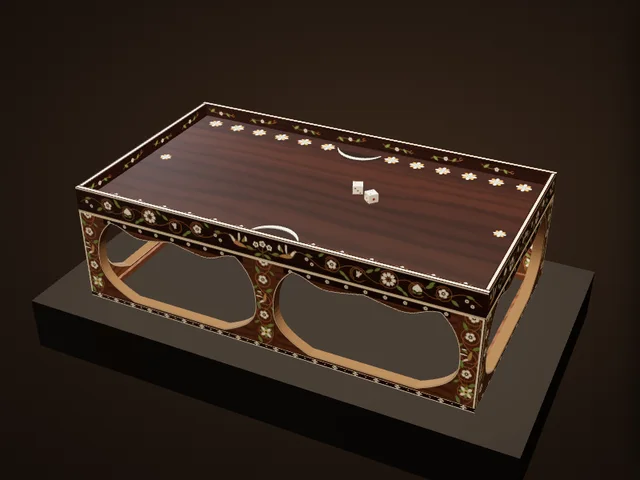
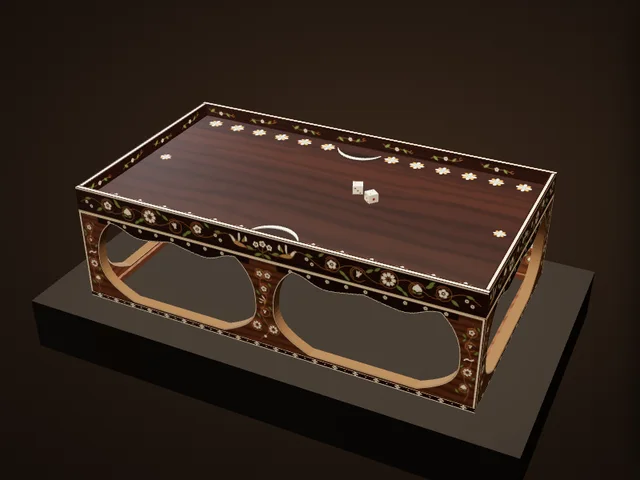
博物館：双六局の床脚・柱の唐草と桟の濃い帯を正面写真の構成に
Claude-Session: https://claude.ai/code/session_01EiWRAZTxRF5M5nk5vdR2jJ

diff --git a/atlas/museum/ex/sugoroku.js b/atlas/museum/ex/sugoroku.js
@@ -53,16 +53,19 @@
         }
         if (opt.edge) { g.fillStyle = C.iv; g.fillRect(0, 0, w, s * .18); g.fillRect(0, h - s * .18, w, s * .18); }
       };
-      // the band round the board's edge, composed as on the Shōsōin's frontal photographs: symmetric about a flowering sprig in the middle;
-      // outward from it a bird flying in, then thin stems curling into rings that hold in turn a five-petalled blossom, a tulip-like
-      // flower, a large eight-petalled rosette and a pointed ivory "shield", olive leaves between; on the short sides the birds are at the ends
-      const band = (g, w, h, s, long) => { g.drawImage(shT.image, 0, 0, w, h); const cy = h * .5, R = h * .33, ol = 'rgba(30,14,8,.6)';
+      const MOT = (g, s) => { const ol = 'rgba(30,14,8,.6)';
         const ring = (x, y, r, dir) => { g.strokeStyle = C.bam; g.lineWidth = s * .055; g.beginPath(); g.arc(x, y, r, dir > 0 ? .6 : Math.PI + .6, dir > 0 ? .6 + 5.3 : Math.PI + .6 + 5.3); g.stroke(); g.beginPath(); g.arc(x, y, r * .8, 2.2, 5.6); g.stroke(); };
         const rosette = (x, y, r) => { g.save(); g.translate(x, y); for (let q = 0; q < 8; q++) { g.rotate(Math.PI / 4); g.beginPath(); g.moveTo(r * .3, 0); g.quadraticCurveTo(r * .62, r * .42, r, r * .12); g.lineTo(r * .86, 0); g.lineTo(r, -r * .12); g.quadraticCurveTo(r * .62, -r * .42, r * .3, 0); g.fillStyle = C.iv; g.fill(); g.strokeStyle = ol; g.lineWidth = s * .03; g.stroke(); }
           g.beginPath(); g.arc(0, 0, r * .34, 0, 6.29); g.fillStyle = '#2a160e'; g.fill(); for (let q = 0; q < 6; q++) { g.rotate(Math.PI / 3); g.beginPath(); g.arc(r * .2, 0, r * .07, 0, 6.29); g.fillStyle = '#c0703c'; g.fill(); } g.restore(); };
         const shield = (x, y, r) => { g.beginPath(); g.moveTo(x, y - r); g.bezierCurveTo(x + r * .5, y - r * .5, x + r * .95, y - r * .3, x + r * .8, y + r * .35); g.quadraticCurveTo(x + r * .4, y + r * .2, x, y + r * .6); g.quadraticCurveTo(x - r * .4, y + r * .2, x - r * .8, y + r * .35); g.bezierCurveTo(x - r * .95, y - r * .3, x - r * .5, y - r * .5, x, y - r); g.fillStyle = C.iv; g.fill(); g.strokeStyle = ol; g.lineWidth = s * .03; g.stroke();
           leaf(g, x - r * .45, y + r * .75, r * .5, .5); leaf(g, x + r * .45, y + r * .75, r * .5, Math.PI - .5); };
         const tulip = (x, y, r, a) => { g.save(); g.translate(x, y); g.rotate(a); [-.55, 0, .55].forEach(t => { g.save(); g.rotate(t); g.beginPath(); g.moveTo(0, r * .5); g.quadraticCurveTo(r * .42, 0, 0, -r); g.quadraticCurveTo(-r * .42, 0, 0, r * .5); g.fillStyle = C.iv; g.fill(); g.strokeStyle = ol; g.lineWidth = s * .03; g.stroke(); g.restore(); }); g.beginPath(); g.arc(0, r * .5, r * .2, 0, 6.29); g.fillStyle = '#2a160e'; g.fill(); g.restore(); };
+        return { ring, rosette, shield, tulip }; };
+      // the band round the board's edge, composed as on the Shōsōin's frontal photographs: symmetric about a flowering sprig in the middle;
+      // outward from it a bird flying in, then thin stems curling into rings that hold in turn a five-petalled blossom, a tulip-like
+      // flower, a large eight-petalled rosette and a pointed ivory "shield", olive leaves between; on the short sides the birds are at the ends
+      const band = (g, w, h, s, long) => { g.drawImage(shT.image, 0, 0, w, h); const cy = h * .5, R = h * .33, ol = 'rgba(30,14,8,.6)';
+        const { ring, rosette, shield, tulip } = MOT(g, s);
         const sprig = (x) => { g.strokeStyle = C.bam; g.lineWidth = s * .055; g.beginPath(); g.moveTo(x, h * .9); g.lineTo(x, cy); g.moveTo(x, h * .7); g.quadraticCurveTo(x - R * .5, h * .62, x - R * .75, cy - R * .1); g.moveTo(x, h * .7); g.quadraticCurveTo(x + R * .5, h * .62, x + R * .75, cy - R * .1); g.stroke();
           flower(g, x, cy - R * .45, R * .42); flower(g, x - R * .8, cy - R * .2, R * .38, .4); flower(g, x + R * .8, cy - R * .2, R * .38, .9); leaf(g, x - R * .55, h * .82, R * .5, -.4); leaf(g, x + R * .55, h * .82, R * .5, Math.PI + .4); leaf(g, x - R * 1.5, cy + R * .4, R * .5, .3); leaf(g, x + R * 1.5, cy + R * .4, R * .5, Math.PI - .3); };
         const half = w / 2, items = long ? [[.115, 'bird'], [.225, 'bud'], [.33, 'blossom'], [.45, 'tulip'], [.585, 'rosette'], [.71, 'shield'], [.82, 'blossom'], [.93, 'bud']] : [[.2, 'tulip'], [.38, 'rosette'], [.56, 'shield'], [.7, 'bud'], [.87, 'bird']];
@@ -151,13 +154,24 @@
         // vertical scrolls up the corner legs and the post (where the wood stands between the openings)
         const LEG = 2.3, POST = 2.5, nO = S.holes.length, ow = (len - 2 * LEG - (nO - 1) * POST) / nO, cols = [LEG * .55, len - LEG * .55];
         for (let i = 1; i < nO; i++) cols.push(LEG + i * ow + (i - .5) * POST);
-        const vs = K.tex(512, Math.round(512 * 3.4 / SK), (g2, w2, h2) => scroll(g2, w2, h2, w2 / SK, seed, baseT, { per: 5.2 }));
-        cols.forEach(cxm => { g.save(); g.translate(cxm * s, h); g.rotate(-Math.PI / 2); g.globalAlpha = 1; g.drawImage(vs.image, 0, -s * 1.7, h, s * 3.4); g.restore(); });
+        // a vine up each leg and the post (the frontal photographs): thin stems in rings; on a leg, from the top, a blossom, a tulip, a white
+        // ribbon-bird, a rosette and a pointed shield; on the post two blossoms, a bird, a tulip and at the foot two rosettes side by side
+        { const { ring, rosette, shield, tulip } = MOT(g, s), top = s * 1.3, bot = h - s * .5, span = bot - top;
+          cols.forEach((cxm, ci) => { const post = ci >= 2, x = cxm * s, R = s * (post ? .8 : .72), Y = f => top + f * span;
+            g.strokeStyle = C.bam; g.lineWidth = s * .055; g.beginPath(); for (let f = 0; f <= 1; f += .01) { const xx = x + Math.sin(f * 15 + ci) * s * (post ? .5 : .32) * (post ? .6 + Math.abs(f - .45) * 1.6 : 1); f ? g.lineTo(xx, Y(f)) : g.moveTo(xx, Y(f)); } g.stroke();
+            const its = post ? [[.07, 'blossom', -.55], [.07, 'blossom', .55], [.26, 'blossom', 0], [.43, 'bird', 0], [.58, 'tulip', 0], [.8, 'rosette', -1.15], [.8, 'rosette', 1.15], [.93, 'bud', 0]] : [[.08, 'blossom', 0], [.26, 'tulip', 0], [.43, 'ribbon', 0], [.6, 'rosette', 0], [.82, 'shield', .25 * (ci ? -1 : 1)]];
+            its.forEach(([f, kind, dx], i) => { const xx = x + dx * s, y = Y(f), d = i % 2 ? 1 : -1;
+              if (kind === 'bird') { g.save(); g.translate(xx, y); g.rotate(-Math.PI / 2.4); bird(g, 0, 0, s * .03, false); g.restore(); return; }
+              if (kind === 'ribbon') { g.strokeStyle = C.iv; g.lineWidth = s * .16; g.lineCap = 'round'; g.beginPath(); g.moveTo(xx - R * .7, y + R * .3); g.bezierCurveTo(xx - R * .2, y - R * .5, xx + R * .1, y + R * .5, xx + R * .7, y - R * .2); g.stroke(); return; }
+              if (kind === 'bud') { g.beginPath(); g.arc(xx, y, R * .22, 0, 6.29); g.fillStyle = C.iv; g.fill(); return; }
+              ring(xx, y, R * (kind === 'rosette' ? 1 : .85), d);
+              if (kind === 'rosette') rosette(xx, y, R * .8); else if (kind === 'shield') shield(xx, y - R * .1, R * .62); else if (kind === 'tulip') tulip(xx, y + R * .1, R * .6, 0); else flower(g, xx, y, R * .52, i);
+              if (!post || Math.abs(dx) < .1) { leaf(g, xx + d * R * 1.05, y + R * .95, R * .5, d > 0 ? 2.2 : .9); leaf(g, xx - d * R * 1.0, y - R * .95, R * .45, d > 0 ? -.9 : -2.2); } }); }); }
         // across the top, between the openings and the edge, a running scroll
         // the strip of rosettes along the top
         g.fillStyle = C.iv; g.fillRect(0, 0, w, s * .14);
         S.holes.forEach(hp => { const xs = hp.getPoints(30).map(p => p.x), xa = (Math.min(...xs) + len / 2) * s, xb = (Math.max(...xs) + len / 2) * s;   // over each opening, a dark strip with rosettes
-          g.fillStyle = '#2a140c'; g.fillRect(xa + s * 1.5, s * .14, xb - xa - s * 3, LIN * s); for (let x = xa + s * 2.4; x < xb - s * 2; x += s * 2.4) flower(g, x, s * .14 + LIN * s * .5, s * .26, x); });
+          g.fillStyle = '#2a140c'; g.fillRect(xa + s * .6, s * .14, xb - xa - s * 1.2, LIN * s); { const ow2 = xb - xa; g.fillRect(xa + ow2 * .1, s * .14, ow2 * .8, s * 2.3); }   /* (the rail and its hanging bracket are dark wood) */ for (let x = xa + s * 2.4; x < xb - s * 2; x += s * 2.4) flower(g, x, s * .14 + LIN * s * .5, s * .26, x); });
         // a bamboo strip following each opening, ivory down the corners
         g.strokeStyle = C.iv; g.lineWidth = s * .13; S.holes.forEach(hp => { g.beginPath(); hp.getPoints(30).forEach((p, i) => { const X = (p.x + len / 2) * s, Y = h - p.y * s; i ? g.lineTo(X, Y) : g.moveTo(X, Y); }); g.closePath(); g.stroke(); });
         g.fillStyle = C.iv; g.fillRect(0, 0, s * .18, h); g.fillRect(w - s * .18, 0, s * .18, h);

diff --git a/atlas/museum.js b/atlas/museum.js
@@ -32,7 +32,7 @@
   const ROOMS = [
     { id: 'map', ready: () => !!window.AtlasMap, render: (el, c) => AtlasMap.render(el, c) },
     { id: 'tree', src: ['museum/tree.js?v=3'], ready: () => !!window.AtlasTree, render: (el, c) => AtlasTree.render(el, c) },
-    { id: 'gallery', src: ['museum/gallery.js?v=70'], ready: () => !!window.AtlasGallery, render: (el, c) => AtlasGallery.render(el, c) },
+    { id: 'gallery', src: ['museum/gallery.js?v=71'], ready: () => !!window.AtlasGallery, render: (el, c) => AtlasGallery.render(el, c) },
   ];
   const KEY = 'atlas-museum-room';
   const esc = s => String(s == null ? '' : s).replace(/[&<>"]/g, c => ({ '&': '&amp;', '<': '&lt;', '>': '&gt;', '"': '&quot;' }[c]));

diff --git a/atlas/index.html b/atlas/index.html
@@ -2559,7 +2559,7 @@ window.AtlasRgdTimer = function (btn, ms, alive) {
 <link rel="stylesheet" href="worldmap.css?v=19">
 <link rel="stylesheet" href="museum.css?v=4">
 <script src="worldmap.js?v=40"></script>
-<script src="museum.js?v=71"></script>
+<script src="museum.js?v=72"></script>
 <script src="npc/npc.js?v=46"></script>
 <script src="avtalk.js?v=4"></script>
 <script>/* Page states as classes on <html> (2026-11-21) — html.cov-on: the 3D view / Historia / a sheet / a level sheet is open;

diff --git a/atlas/museum/gallery.js b/atlas/museum/gallery.js
@@ -10,7 +10,7 @@
    (a turn, a zoom, the slow turntable) and never while the window is in the background. */
 (function () {
   'use strict';
-  const V = 70;
+  const V = 71;
   /* ---------- the pieces: id, the game it belongs to, its scale (cm per model unit), the camera's start, the details ----------
      lock: { game, ach } → open after that many achievements of the game. src: the files the piece needs (besides ex/<id>.js) */
   const EX = [
